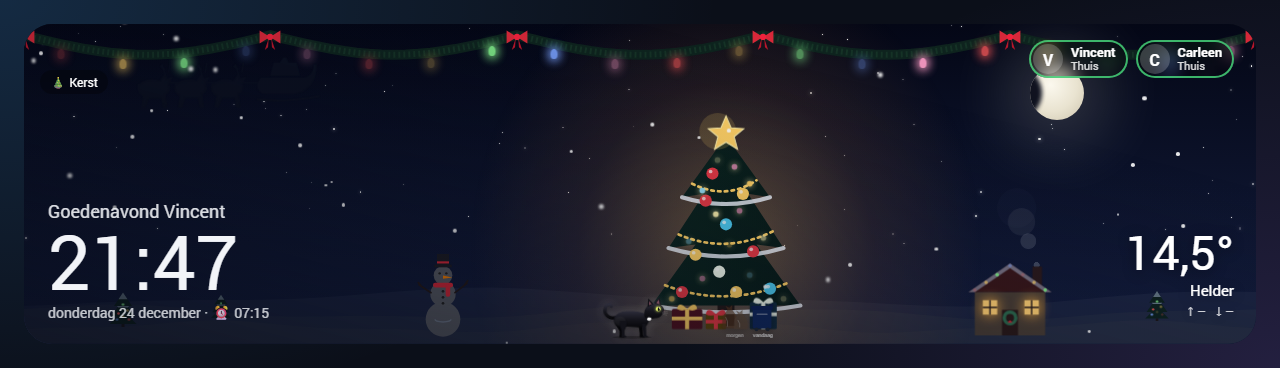
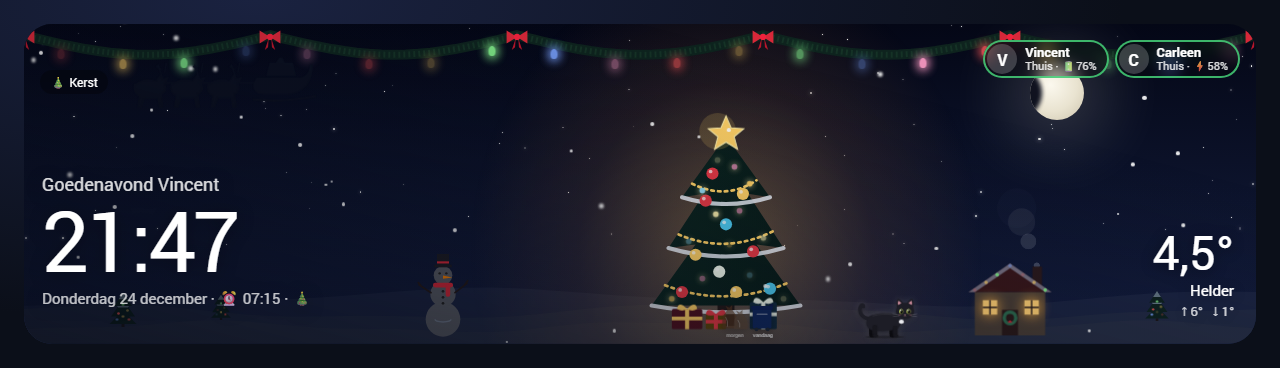
Add Pixel's medication to the README with a screenshot, and refresh the weather card screenshots with the new cat

diff --git a/README.md b/README.md
@@ -14,7 +14,8 @@ energy, parcels, notifications and more.
 Highlights:
 - **Smart lighting** — motion, time of day, circadian colour temperature and per-room scenes
 - **Presence and routines** — per-person presence, work schedules (office, home or off per day), sleep and wake-up
-- **The cat, Pixel** — automatic feeding, litter box and fountain monitoring, and a log of when he threw up
+- **The cat, Pixel** — automatic feeding, litter box and fountain monitoring, his medication (with reminders, stock and
+  costs) and a log of when he threw up
 - **Energy** — dynamic prices, warnings for extreme prices, the cost of working from home, and power estimates for
   devices that only report kWh
 - **Household** — laundry advice and monitoring, garbage pickup, parcels from PostNL, DHL, DPD and GLS
@@ -36,7 +37,8 @@ The heart of the Home page: a live sky (sun and moon at their real position, gen
 storms) over a landscape that changes with the season and the holidays. It also tells what is going on at home:
 smoke from the chimney and a lit window while someone is home, the laundry on the line (swaying in the wind),
 garbage bags or the paper bin at the curb when they go out, and Pixel wandering around — ten minutes before his
-food he waits at the front door. The pills show who is home, asleep or working, and kitchen timers count down live.
+food he sits at the front door, wagging his tail. The pills show who is home, asleep or working, and kitchen timers
+count down live.
 
 ![Weather card on an autumn afternoon](docs/images/dashboard/weather-card-day.png)
 
@@ -46,7 +48,7 @@ food he waits at the front door. The pills show who is home, asleep or working, 
 
 Everything that needs attention right now gets an eye-catching card on Home, and disappears again when it no longer
 matters: extreme electricity prices, the running washing machine with its phase and time left, laundry outside when
-rain is coming, problems with Pixel's things and batteries below 10%.
+rain is coming, Pixel's medicine when it is due or running out, problems with his things and batteries below 10%.
 
 ![Alerts on the Home page](docs/images/dashboard/home-alerts.png)
 
@@ -57,6 +59,16 @@ Vincent and Carleen each have a private page with their own work schedule (tap a
 for Vincent, the stock of cigarette packs.
 
 ![Pixel's timeline, cigarette stock and work schedule](docs/images/dashboard/pixel-and-personal.png)
+
+### Pixel's medication
+
+Pixel gets a quarter of a prednison pill every evening and half an antibraak pill when needed. A tap on the pill gives
+a dose; the circle shows how much of the started pill is left, with the piece you give next softly blinking. From the
+reminder time Home shows a card until it is given, and an hour later both phones get a notification with a "Given"
+button (the next morning a "forgotten" one). The stock comes with the price per pill, per dose and per box and what it
+cost so far; a two-week chart and the full history (kept forever, with undo as a correction line) complete the page.
+
+![Pixel's medication: stock, costs, chart and history](docs/images/dashboard/pixel-medication.png)
 
 ### Energy, parcels and working from home
 
@@ -111,6 +123,7 @@ dotnet test
 - **[NetDaemon System](docs/apps/netdaemon-system.md)** - System monitoring and lifecycle management
 - **Parcel Notifications** - Notifications for new parcels, status changes and PostNL letters
 - **[PC Manager](docs/apps/pc-manager.md)** - PC-related automations and device control
+- **Pixel Medication** - Pixel's doses, stock, prices and reminders, with the full history kept forever
 - **Power Estimator** - Estimated power for devices that only report an energy meter (such as the washing machine)
 - **Presence Manager** - Per-person presence and the shared away state
 - **Presence Simulation** - Makes the house look lived-in while on vacation
